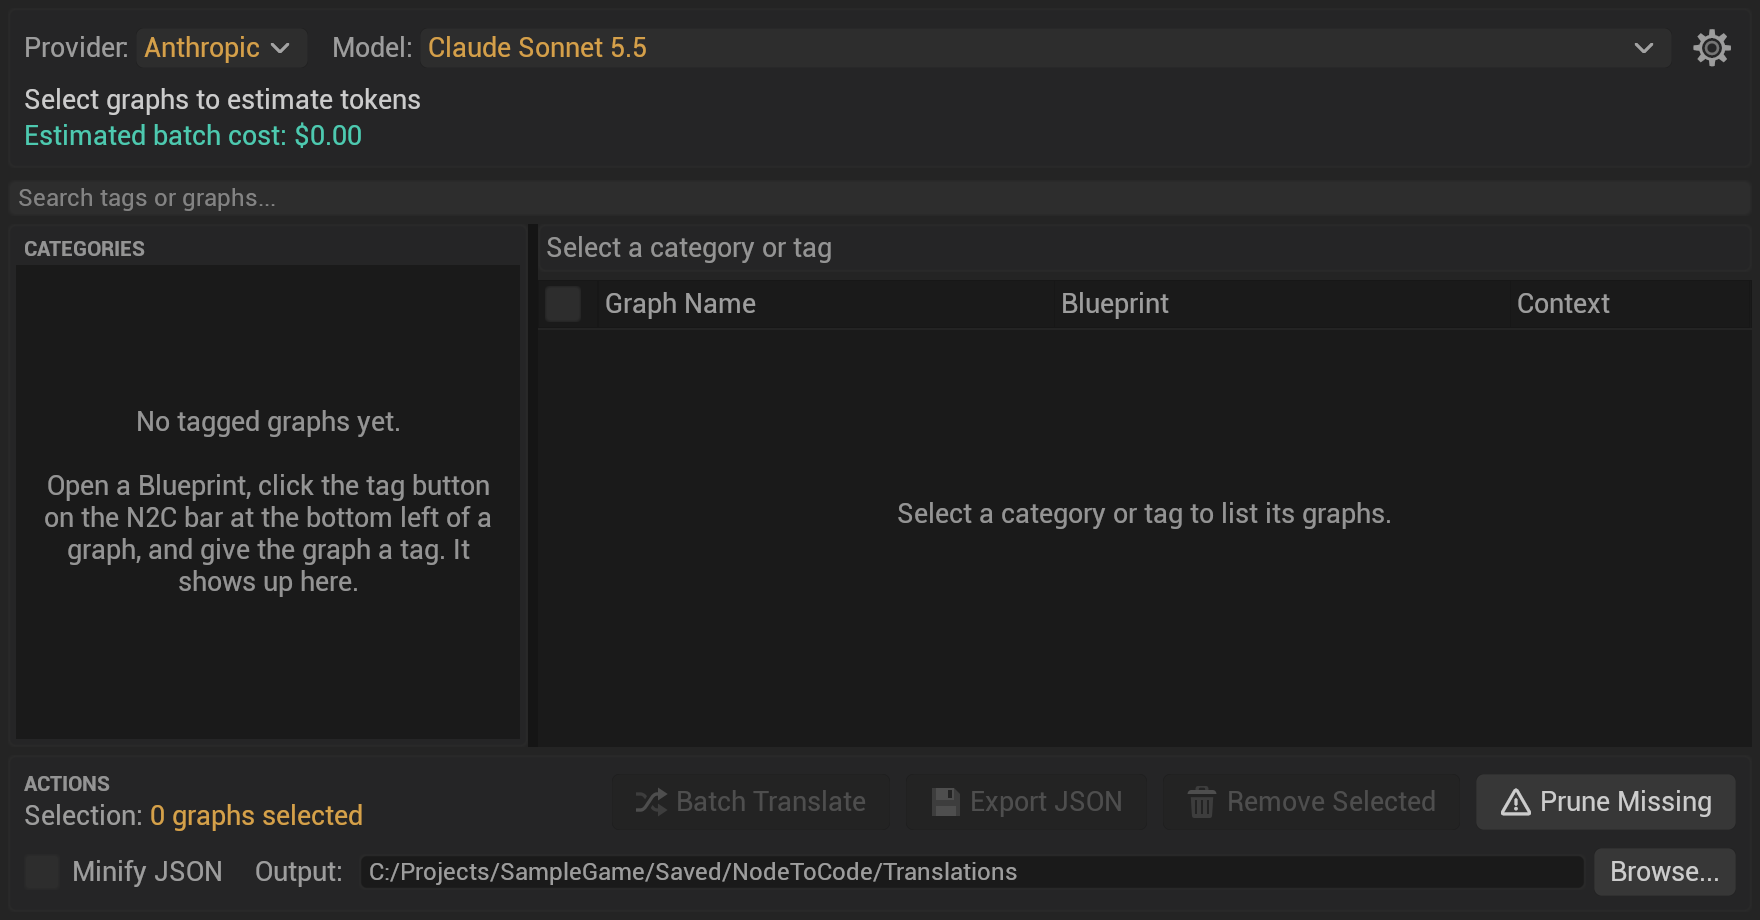
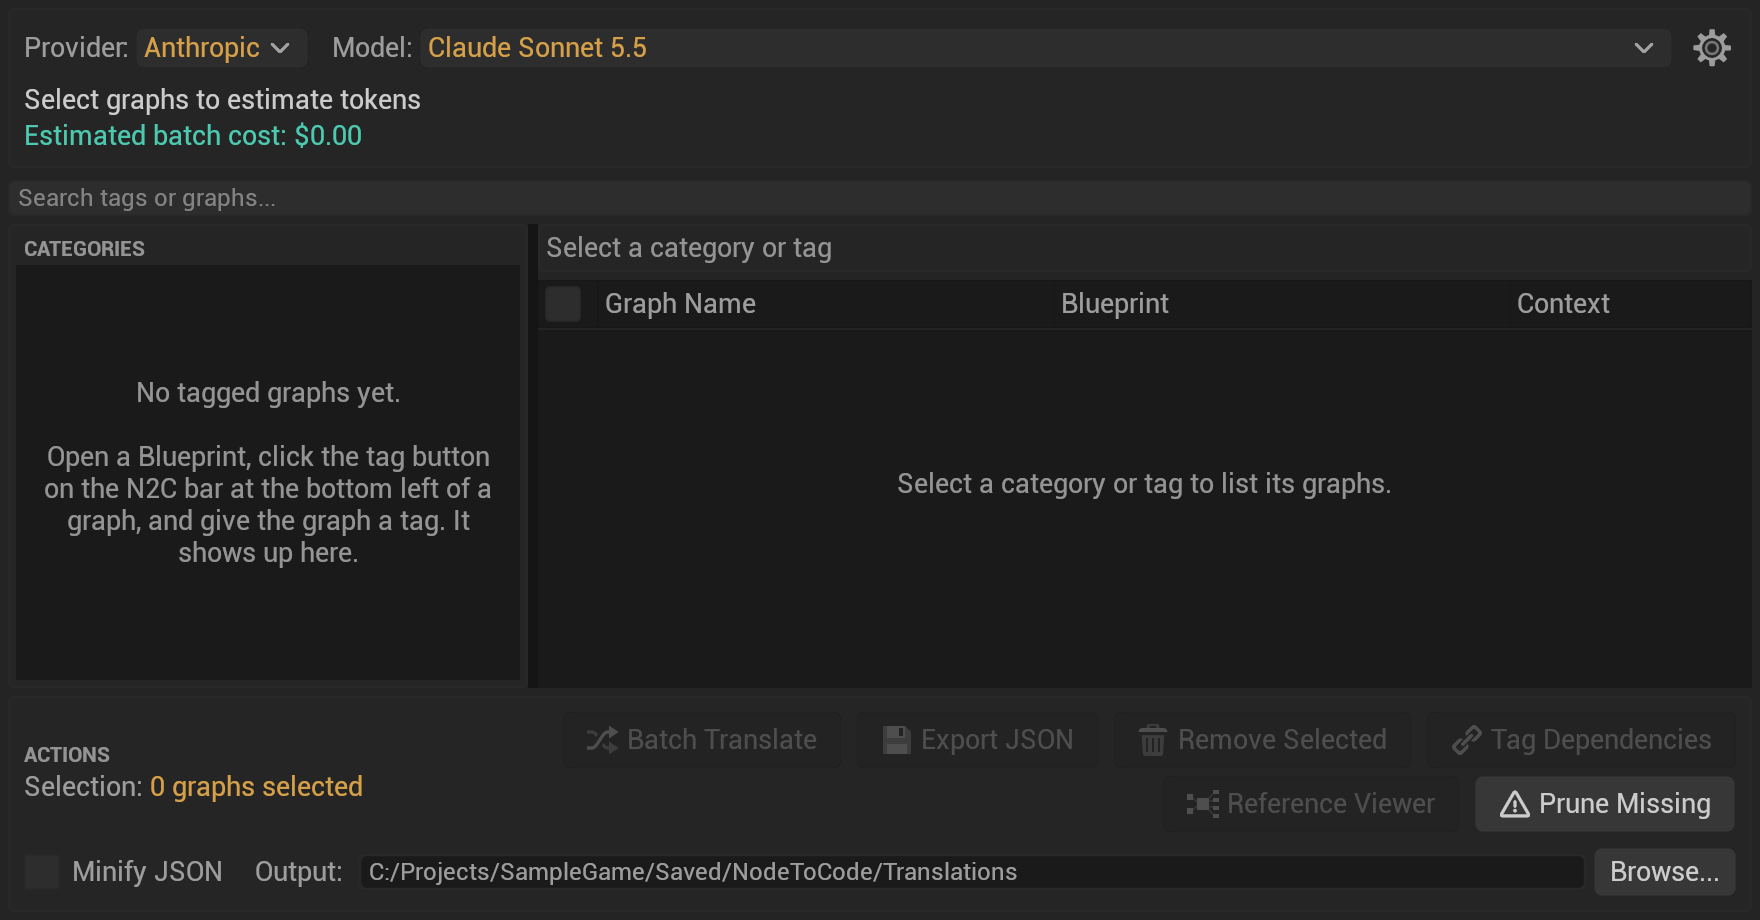
fix(ui): the tag manager's action buttons wrap onto a second line in a narrow window; main-window shots retaken (card 0319)
With Tag Dependencies and Reference Viewer the Actions row is wider than the docs-shot window (and a docked Node to
Code tab), so Reference Viewer was cut off and Prune Missing pushed out of sight. The buttons are now in an SWrapBox
(right-aligned, laid out in the space it is given), so they wrap instead.

capture.py --group main-window --repeat-check: identical across two runs; the recording run retook first-run.png and
tag-manager.png (both show the Actions bar), and shots.json restamps the group.

diff --git a/Source/Private/Core/Widgets/SN2CTagManager.cpp b/Source/Private/Core/Widgets/SN2CTagManager.cpp
@@ -20,6 +20,7 @@
 #include "Widgets/Layout/SBorder.h"
 #include "Widgets/Layout/SBox.h"
 #include "Widgets/Layout/SSplitter.h"
+#include "Widgets/Layout/SWrapBox.h"
 #include "Widgets/Text/STextBlock.h"
 #include "Widgets/Input/SEditableTextBox.h"
 #include "Widgets/Input/SButton.h"
@@ -168,17 +169,17 @@ void SN2CTagManager::Construct(const FArguments& InArgs)
 								]
 							]
 						]
-						// Right: action buttons
+						// Right: action buttons, wrapped onto a second line when the window is too narrow for one (card 0319)
 						+ SHorizontalBox::Slot()
 						.FillWidth(1.0f)
-						.HAlign(HAlign_Right)
 						.VAlign(VAlign_Center)
 						[
-							SNew(SHorizontalBox)
+							SNew(SWrapBox)
+							.UseAllottedSize(true)
+							.HAlign(HAlign_Right)
+							.InnerSlotPadding(FVector2D(FN2CSpacing::MD, FN2CSpacing::XS))
 							// Batch Translate button
-							+ SHorizontalBox::Slot()
-							.AutoWidth()
-							.Padding(0.0f, 0.0f, FN2CSpacing::MD, 0.0f)
+							+ SWrapBox::Slot()
 							[
 								SAssignNew(BatchTranslateButton, SN2CIconButton)
 								.IsEnabled(this, &SN2CTagManager::AreSelectionActionsEnabled)
@@ -189,9 +190,7 @@ void SN2CTagManager::Construct(const FArguments& InArgs)
 								.OnClicked(this, &SN2CTagManager::HandleBatchTranslateClicked)
 							]
 							// Export JSON button
-							+ SHorizontalBox::Slot()
-							.AutoWidth()
-							.Padding(0.0f, 0.0f, FN2CSpacing::MD, 0.0f)
+							+ SWrapBox::Slot()
 							[
 								SAssignNew(ExportJsonButton, SN2CIconButton)
 								.IsEnabled(this, &SN2CTagManager::AreSelectionActionsEnabled)
@@ -202,8 +201,7 @@ void SN2CTagManager::Construct(const FArguments& InArgs)
 								.OnClicked(this, &SN2CTagManager::HandleExportJsonClicked)
 							]
 							// Remove Selected button
-							+ SHorizontalBox::Slot()
-							.AutoWidth()
+							+ SWrapBox::Slot()
 							[
 								SAssignNew(RemoveSelectedButton, SN2CIconButton)
 								.IsEnabled(this, &SN2CTagManager::AreSelectionActionsEnabled)
@@ -214,9 +212,7 @@ void SN2CTagManager::Construct(const FArguments& InArgs)
 								.OnClicked(this, &SN2CTagManager::HandleRemoveSelectedClicked)
 							]
 							// Tag Dependencies: the selected tag on everything the checked Blueprints depend on (card 0319)
-							+ SHorizontalBox::Slot()
-							.AutoWidth()
-							.Padding(FN2CSpacing::MD, 0.0f, 0.0f, 0.0f)
+							+ SWrapBox::Slot()
 							[
 								SNew(SN2CIconButton)
 								.IsEnabled(this, &SN2CTagManager::IsTagDependenciesEnabled)
@@ -227,9 +223,7 @@ void SN2CTagManager::Construct(const FArguments& InArgs)
 								.OnClicked(this, &SN2CTagManager::HandleTagDependenciesClicked)
 							]
 							// Reference Viewer: UE's Reference Viewer on the checked Blueprints (card 0319)
-							+ SHorizontalBox::Slot()
-							.AutoWidth()
-							.Padding(FN2CSpacing::MD, 0.0f, 0.0f, 0.0f)
+							+ SWrapBox::Slot()
 							[
 								SNew(SN2CIconButton)
 								.IsEnabled(this, &SN2CTagManager::AreSelectionActionsEnabled)
@@ -240,9 +234,7 @@ void SN2CTagManager::Construct(const FArguments& InArgs)
 								.OnClicked(this, &SN2CTagManager::HandleReferenceViewerClicked)
 							]
 							// Prune Missing button: tags and translation records of deleted Blueprints
-							+ SHorizontalBox::Slot()
-							.AutoWidth()
-							.Padding(FN2CSpacing::MD, 0.0f, 0.0f, 0.0f)
+							+ SWrapBox::Slot()
 							[
 								SNew(SN2CIconButton)
 								.IconBrush(FAppStyle::GetBrush("Icons.Warning"))
